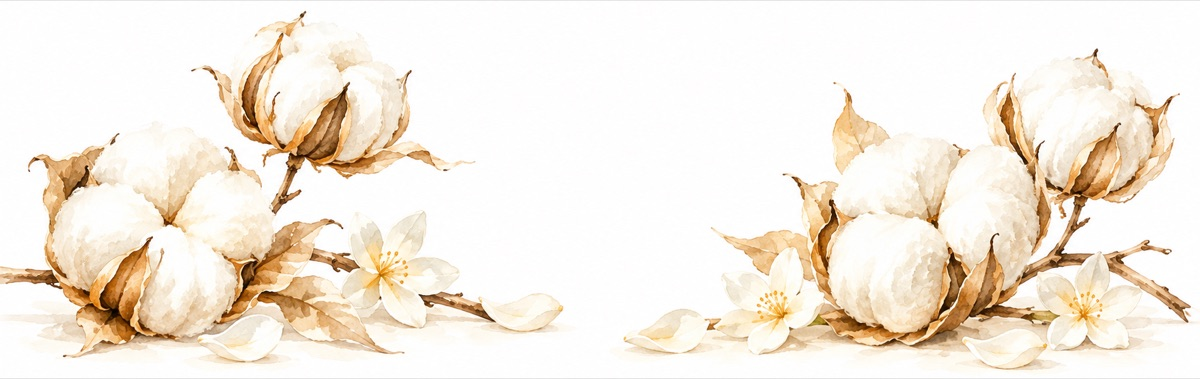
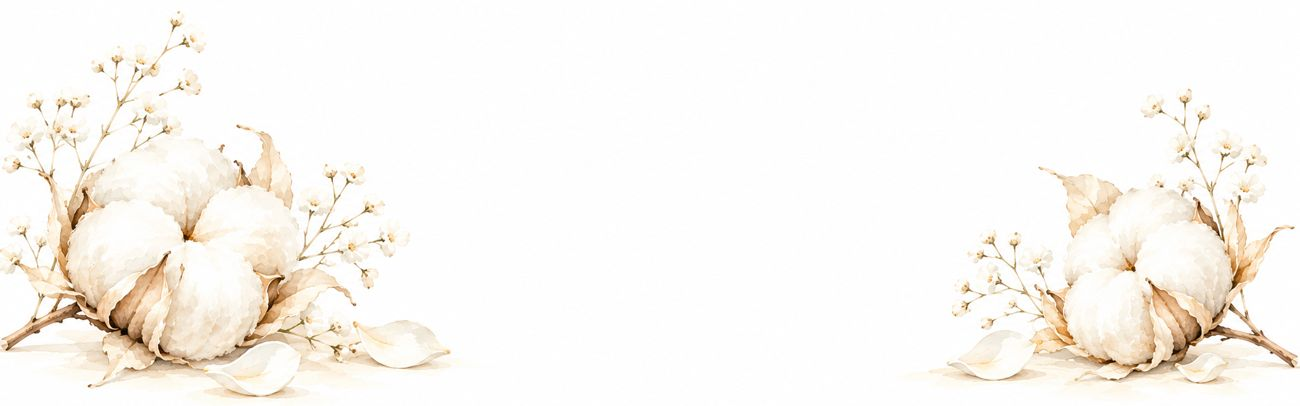
新版小样：棉花减到两朵，加满天星

diff --git a/new/index.html b/new/index.html
@@ -25,13 +25,14 @@ body{padding-bottom:110px}
 .hero{position:relative;height:min(118vw,560px);margin-top:-70px;overflow:hidden;touch-action:pan-y}
 .silk{position:absolute;inset:-20px;background:url(img/silk.jpg) center 60%/cover no-repeat;will-change:transform}
 .hero::after{content:'';position:absolute;left:0;right:0;bottom:0;height:70px;background:linear-gradient(transparent,var(--ivory))}
-.cotton{position:absolute;left:50%;bottom:calc(9% - 14px);width:min(116vw,640px);aspect-ratio:1200/379;
-  background:url(img/cotton.jpg) center/100% 100% no-repeat;mix-blend-mode:multiply;filter:blur(.6px);opacity:.85;
+.cotton{position:absolute;left:50%;bottom:calc(9% - 14px);width:min(124vw,680px);aspect-ratio:1300/406;
+  background:url(img/cotton.jpg) center/100% 100% no-repeat;mix-blend-mode:multiply;filter:blur(.5px);opacity:.9;
   -webkit-mask-image:linear-gradient(transparent,#000 14%,#000 90%,transparent);mask-image:linear-gradient(transparent,#000 14%,#000 90%,transparent);
   transform:translateX(-50%);z-index:1;will-change:transform}
 .stage{position:absolute;left:50%;bottom:9%;width:min(52vw,250px);transform:translateX(-50%);z-index:2;mix-blend-mode:multiply}
 .shadow{position:absolute;left:12%;right:12%;bottom:-6px;height:22px;border-radius:50%;
   background:radial-gradient(ellipse at center,rgba(120,90,40,.28),transparent 70%);will-change:transform}
+@media (max-width:600px){.cotton{width:104vw}.stage{width:47vw}}
 .bottle{display:block;width:100%;transform-origin:50% 96%;will-change:transform;
   cursor:grab;user-select:none;-webkit-user-drag:none;touch-action:pan-y}
 .bottle.dragging{cursor:grabbing}
